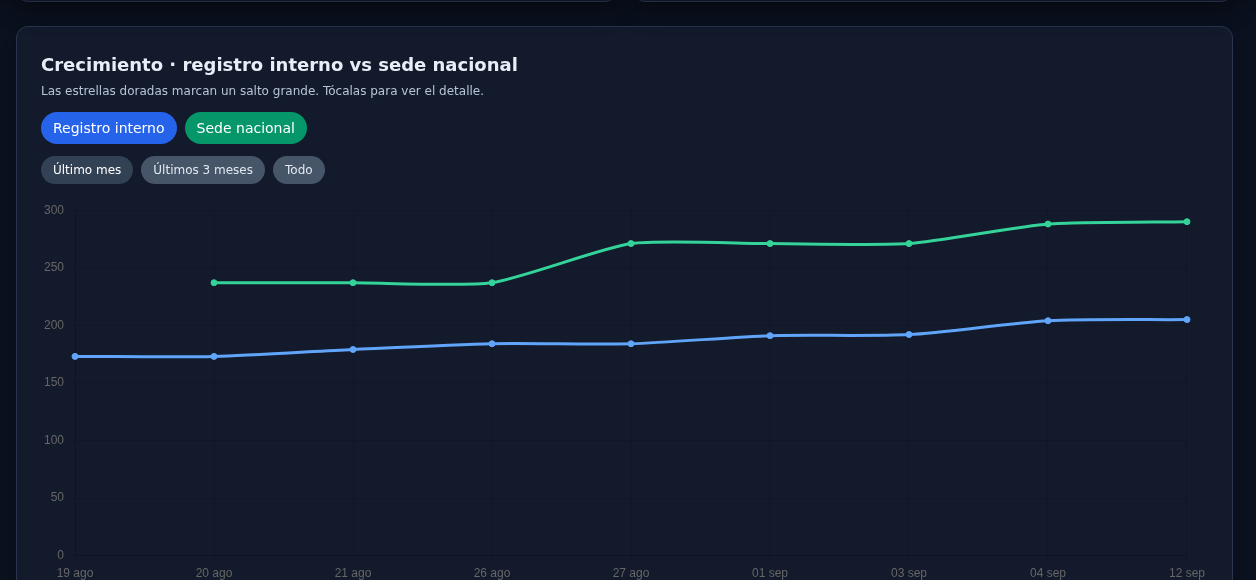
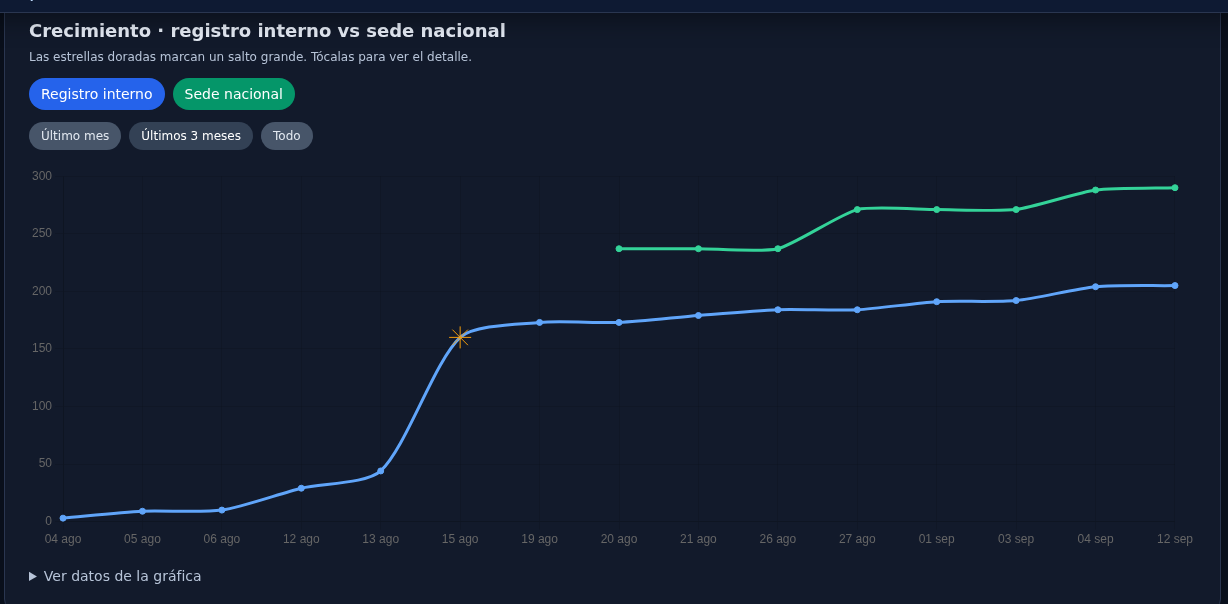
Deploy full 3-month dark evolución to GitHub Pages
Publish complete screenshot for gallery evolución and hero (no crop)
with ?v=dark3m cache-bust so the live site refreshes.

diff --git a/index.html b/index.html
@@ -1,1 +1,1 @@
-<!DOCTYPE html><html lang="es"><head><meta charset="UTF-8"><meta name="viewport" content="width=device-width, initial-scale=1"><meta name="generator" content="Astro v7.3.2"><title>Sebastian Romero · Automatización y dashboards</title><meta name="description" content="Ingeniero de sistemas en Colombia. Diseño dashboards, informes y automatizaciones con Python y Node.js para equipos que necesitan operar con claridad."><link rel="canonical" href="https://crearbots.github.io/portafolio/"><meta name="theme-color" content="#0a0c0f"><meta property="og:title" content="Sebastian Romero · Automatización y dashboards"><meta property="og:description" content="Ingeniero de sistemas en Colombia. Diseño dashboards, informes y automatizaciones con Python y Node.js para equipos que necesitan operar con claridad."><meta property="og:type" content="website"><meta property="og:url" content="https://crearbots.github.io/portafolio/"><meta property="og:locale" content="es_CO"><meta property="og:image" content="https://crearbots.github.io/portafolio/og.png"><meta property="og:image:width" content="1200"><meta property="og:image:height" content="630"><meta property="og:image:alt" content="Sebastian Romero · Automatización y dashboards"><meta name="twitter:card" content="summary_large_image"><meta name="twitter:title" content="Sebastian Romero · Automatización y dashboards"><meta name="twitter:description" content="Ingeniero de sistemas en Colombia. Diseño dashboards, informes y automatizaciones con Python y Node.js para equipos que necesitan operar con claridad."><meta name="twitter:image" content="https://crearbots.github.io/portafolio/og.png"><link rel="icon" type="image/svg+xml" href="/portafolio/favicon.svg"><link rel="preconnect" href="https://fonts.googleapis.com"><link rel="preconnect" href="https://fonts.gstatic.com" crossorigin><link href="https://fonts.googleapis.com/css2?family=DM+Sans:ital,opsz,wght@0,9..40,400;0,9..40,500;0,9..40,600;0,9..40,700;1,9..40,400&family=Syne:wght@500;600;700;800&display=swap" rel="stylesheet"><link rel="stylesheet" href="/portafolio/_astro/index.Dat7od7B.css"></head><body><a class="skip-link" href="#contenido">Saltar al contenido</a><header class="site-header"><div class="wrap nav"><a class="nav-brand" href="/portafolio/#">Sebastian Romero</a><button type="button" class="nav-toggle" aria-expanded="false" aria-controls="nav-menu" id="nav-toggle">Menú</button><ul class="nav-links" id="nav-menu"><li><a href="/portafolio/#servicios">Servicios</a></li><li><a href="/portafolio/#casos">Casos</a></li><li><a href="/portafolio/#sobre-mi">Sobre mí</a></li><li><a href="/portafolio/#contacto">Contacto</a></li><li><a href="https://github.com/crearbots" target="_blank" rel="noopener noreferrer">GitHub</a></li></ul></div></header><main id="contenido"><section class="hero" aria-labelledby="hero-title"><div class="wrap hero-grid"><div class="hero-copy"><p class="hero-eyebrow">Disponible para proyectos</p><h1 id="hero-title">Automatización y dashboards que tu equipo puede usar cada semana</h1><p class="hero-sub">Soy Sebastian Romero, ingeniero de sistemas. Construyo herramientas web e informes operativos — no demos para impresionar, sistemas para trabajar.</p><p class="hero-meta"><span>Colombia</span><span>UTC−5</span><span>Remoto</span></p><div class="cta-row"><a class="btn btn-primary" href="https://wa.me/573138793438" target="_blank" rel="noopener noreferrer">Hablemos por WhatsApp</a><a class="btn btn-ghost" href="/portafolio/#casos">Ver casos</a><a class="btn btn-link" href="https://github.com/crearbots" target="_blank" rel="noopener noreferrer">GitHub →</a></div></div><div class="hero-visual"><div class="hero-visual-glow" aria-hidden="true"></div><div class="hero-stage"><figure class="hero-product"><div class="hero-product-chrome" aria-hidden="true"><div class="shot-dots"><span></span><span></span><span></span></div><div class="shot-url">dashboard · evolución</div></div><div class="hero-product-media"><img src="/portafolio/images/censo/hero-dashboard.png?v=dark1" alt="Gráfico de evolución diaria del censo InfoMIRA" width="1256" height="580" decoding="async" fetchpriority="high"></div><figcaption class="hero-product-caption"><a href="/portafolio/#casos">Censo · evolución del dashboard</a></figcaption></figure><div class="hero-float hero-float--stack" aria-hidden="true"><span>Python</span><span>FastAPI</span></div><svg class="hero-orbit" viewBox="0 0 320 320" fill="none" xmlns="http://www.w3.org/2000/svg" aria-hidden="true"><circle cx="160" cy="160" r="118" stroke="url(#orbitGrad)" stroke-width="1.2" stroke-dasharray="4 8" opacity="0.55"></circle><circle cx="160" cy="160" r="148" stroke="rgba(232,160,84,0.22)" stroke-width="1" stroke-dasharray="2 10"></circle><defs><linearGradient id="orbitGrad" x1="40" y1="40" x2="280" y2="280"><stop stop-color="#6ba8d8"></stop><stop offset="1" stop-color="#e8a054"></stop></linearGradient></defs></svg></div></div></div></section><section id="servicios" aria-labelledby="servicios-title"><div class="wrap"><div class="section-head"><p class="section-label">Servicios</p><h2 id="servicios-title">En qué puedo ayudarte</h2></div><div class="services-grid"><article class="service-card"><div class="service-icon" aria-hidden="true">01</div><h3>Dashboards e informes operativos</h3><p>Dejas de armar el reporte a mano. Tableros y resúmenes semanales listos para compartir con tu equipo.</p></article><article class="service-card"><div class="service-icon" aria-hidden="true">02</div><h3>Automatización de procesos</h3><p>Scripts y flujos que quitan trabajo repetitivo: Excel, mensajes, cargas de datos y tareas en Linux.</p></article><article class="service-card"><div class="service-icon" aria-hidden="true">03</div><h3>Desarrollo web orientado a operación</h3><p>Paneles internos, login, carga de archivos y vistas claras para quien no es técnico.</p></article><article class="service-card"><div class="service-icon" aria-hidden="true">04</div><h3>Backend con Python y Node.js</h3><p>APIs y lógica de negocio cuando tu proceso ya no cabe en una hoja de cálculo.</p></article></div></div></section><section id="casos" aria-labelledby="casos-title"><div class="wrap"><div class="section-head"><p class="section-label">Casos</p><h2 id="casos-title">Trabajo real, no demos</h2></div><article class="case case--magazine" aria-labelledby="caso-censo"><div class="case-header"><h3 id="caso-censo">censo</h3><span class="badge badge-live">Proyecto real · en uso</span></div><dl class="case-grid"><div class="case-block"><dt>Problema</dt><dd>Equipo de instalaciones de una app de comunidad con registros duplicados y seguimiento disperso; el informe salía por WhatsApp a mano.</dd></div><div class="case-block"><dt>Solución</dt><dd>Web interna con login, carga de Excel, dashboard de seguimiento e informe listo para compartir.</dd></div><div class="case-block"><dt>Resultado</dt><dd>Dashboard de avance e informe semanal para WhatsApp en operación; versión usable y versionada (v1.1–v1.4) con el equipo.</dd></div><div class="case-block"><dt>Stack</dt><dd>Python, FastAPI, SQLAlchemy, Jinja2, SQLite, Railway</dd></div></dl><div class="case-stack" aria-label="Tecnologías"><span class="stack-chip">Python</span><span class="stack-chip">FastAPI</span><span class="stack-chip">SQLAlchemy</span><span class="stack-chip">Jinja2</span><span class="stack-chip">SQLite</span><span class="stack-chip">Railway</span></div><div class="shot-gallery shot-gallery--editorial" aria-label="Capturas del producto censo" data-lightbox-gallery><figure class="shot-frame shot-frame--feature"><div class="shot-chrome" aria-hidden="true"><div class="shot-dots"><span></span><span></span><span></span></div><div class="shot-url">infomira-censo · /dashboard</div></div><div class="shot-media"><button type="button" class="shot-trigger" data-lightbox-open data-lightbox-src="/portafolio/images/censo/dashboard-avance.png?v=dark1" data-lightbox-alt="Dashboard InfoMIRA Censo: avance del equipo 290 de 500 (58 %) en Resultados septiembre 2026" data-lightbox-caption="Dashboard de avance" aria-label="Ampliar imagen: Dashboard de avance"><img src="/portafolio/images/censo/dashboard-avance.png?v=dark1" alt="Dashboard InfoMIRA Censo: avance del equipo 290 de 500 (58 %) en Resultados septiembre 2026" width="1280" height="656" loading="lazy" decoding="async"></button></div><figcaption class="shot-caption">Dashboard de avance</figcaption></figure><figure class="shot-frame"><div class="shot-chrome" aria-hidden="true"><div class="shot-dots"><span></span><span></span><span></span></div><div class="shot-url">infomira-censo · evolución diaria</div></div><div class="shot-media"><button type="button" class="shot-trigger" data-lightbox-open data-lightbox-src="/portafolio/images/censo/dashboard-evolucion.png?v=dark1" data-lightbox-alt="Gráfico de evolución diaria del censo InfoMIRA: acumulado de personas instaladas en el tiempo" data-lightbox-caption="Evolución del censo" aria-label="Ampliar imagen: Evolución del censo"><img src="/portafolio/images/censo/dashboard-evolucion.png?v=dark1" alt="Gráfico de evolución diaria del censo InfoMIRA: acumulado de personas instaladas en el tiempo" width="1280" height="656" loading="lazy" decoding="async"></button></div><figcaption class="shot-caption">Evolución del censo</figcaption></figure><figure class="shot-frame"><div class="shot-chrome" aria-hidden="true"><div class="shot-dots"><span></span><span></span><span></span></div><div class="shot-url">infomira-censo · /informe</div></div><div class="shot-media"><button type="button" class="shot-trigger" data-lightbox-open data-lightbox-src="/portafolio/images/censo/informe-whatsapp.png?v=dark1" data-lightbox-alt="Informe semanal de InfoMIRA Censo listo para copiar y pegar en WhatsApp" data-lightbox-caption="Informe semanal para WhatsApp" aria-label="Ampliar imagen: Informe semanal para WhatsApp"><img src="/portafolio/images/censo/informe-whatsapp.png?v=dark1" alt="Informe semanal de InfoMIRA Censo listo para copiar y pegar en WhatsApp" width="1280" height="656" loading="lazy" decoding="async"></button></div><figcaption class="shot-caption">Informe semanal para WhatsApp</figcaption></figure></div><div class="case-actions"><div class="case-product"><a class="btn btn-primary" href="https://infomira-censo-production.up.railway.app/dashboard" target="_blank" rel="noopener noreferrer">Abrir app en producción</a><p class="case-access-note">Requiere acceso (login)</p></div><a class="btn btn-ghost" href="https://wa.me/573138793438" target="_blank" rel="noopener noreferrer">¿Necesitas un panel así para tu operación?</a></div></article><article class="case case--magazine" aria-labelledby="caso-tokio-ui"><div class="case-header"><h3 id="caso-tokio-ui">tokio-ui</h3><span class="badge badge-wip">En evolución · fase 1</span></div><dl class="case-grid"><div class="case-block"><dt>Problema</dt><dd>Interfaz compañera para un asistente de trayecto por voz: hace falta una presencia visual que reaccione al audio, sin ser aún un producto cerrado.</dd></div><div class="case-block"><dt>Qué hace hoy</dt><dd>Orbe 3D en Three.js (núcleo, cáscara, anillos) que reacciona al audio del sistema o de otra pestaña en el navegador. Conectar / Cortar en Chrome de escritorio; captura en móvil queda para fase 4.</dd></div><div class="case-block"><dt>Alcance</dt><dd>Visión: compañera de trayecto con presencia 3D. Próximo: control por gestos (manos), uso en celular, y más adelante navegación por voz con mapa propio. Hoy: fase 1 — orbe reactivo al audio en escritorio, con demo pública.</dd></div><div class="case-block"><dt>Stack</dt><dd>Vite, TypeScript, Three.js</dd></div></dl><div class="case-stack" aria-label="Tecnologías"><span class="stack-chip">Vite</span><span class="stack-chip">TypeScript</span><span class="stack-chip">Three.js</span></div><figure class="shot-frame shot-frame--hero" aria-label="Captura de tokio-ui"><div class="shot-chrome" aria-hidden="true"><div class="shot-dots"><span></span><span></span><span></span></div><div class="shot-url">tokio-ui · orbe holográfico</div></div><div class="shot-media"><button type="button" class="shot-trigger" data-lightbox-open data-lightbox-src="/portafolio/images/tokio/fase1-orbe.png" data-lightbox-alt="Tokio UI fase 1: orbe holográfico en negro con anillos rojo y cian; panel TOKIO con enlace activo y voz hablando" data-lightbox-caption="Orbe en fase 1" aria-label="Ampliar imagen: Orbe en fase 1"><img src="/portafolio/images/tokio/fase1-orbe.png" alt="Tokio UI fase 1: orbe holográfico en negro con anillos rojo y cian; panel TOKIO con enlace activo y voz hablando" width="1917" height="905" loading="lazy" decoding="async"></button></div><figcaption class="shot-caption">Orbe en fase 1</figcaption></figure><div class="case-actions"><div class="case-product"><a class="btn btn-primary" href="https://tokio-ui-production.up.railway.app/" target="_blank" rel="noopener noreferrer">Abrir Tokio UI</a><p class="case-access-note">Demo en vivo · Chrome de escritorio recomendado para el enlace de audio</p></div><a class="btn btn-ghost" href="https://wa.me/573138793438" target="_blank" rel="noopener noreferrer">Lo maduramos juntos</a><a class="case-repo" href="https://github.com/crearbots/tokio-ui" target="_blank" rel="noopener noreferrer">Código en GitHub</a></div></article><article class="case case--magazine case--text" aria-labelledby="caso-whatsapp-envios"><div class="case-header"><h3 id="caso-whatsapp-envios">whatsapp-envios</h3><span class="badge badge-wip">MVP · pruebas internas</span></div><dl class="case-grid"><div class="case-block"><dt>Problema</dt><dd>Convocatorias e invitaciones por WhatsApp se armaban uno a uno: lento, fácil de equivocarse y difícil de seguir quién recibió el mensaje.</dd></div><div class="case-block"><dt>Solución</dt><dd>Herramienta web para campañas de WhatsApp personalizadas: login y roles, carga de Excel, vinculación por QR, progreso del envío y reintento de fallidos.</dd></div><div class="case-block"><dt>Estado</dt><dd>En pruebas internas con el equipo. Aún no hay demo pública ni capturas publicadas; cuando quieras verlo, avísame por WhatsApp.</dd></div><div class="case-block"><dt>Stack</dt><dd>Node.js, Express, SQLite (better-sqlite3), whatsapp-web.js, Excel (xlsx), JWT</dd></div></dl><div class="case-stack" aria-label="Tecnologías"><span class="stack-chip">Node.js</span><span class="stack-chip">Express</span><span class="stack-chip">SQLite</span><span class="stack-chip">whatsapp-web.js</span><span class="stack-chip">Excel</span><span class="stack-chip">JWT</span></div><div class="case-actions"><div class="case-product"><a class="btn btn-primary" href="https://wa.me/573138793438" target="_blank" rel="noopener noreferrer">Pedir demo</a><p class="case-access-note">Pruebas internas · sin demo pública aún</p></div><a class="case-repo" href="https://github.com/crearbots/whatsapp-envios" target="_blank" rel="noopener noreferrer">Código en GitHub</a></div></article></div></section><section id="como-trabajo" aria-labelledby="como-title"><div class="wrap"><div class="section-head"><p class="section-label">Método</p><h2 id="como-title">Cómo trabajo</h2></div><ol class="steps"><li class="step"><h3>Entender el proceso</h3><p>Primero el flujo real: quién carga datos, qué se decide y qué se reporta. Sin eso, el software sobra.</p></li><li class="step"><h3>Entregar algo usable</h3><p>Prefiero una versión que el equipo ya pueda usar a una demo perfecta que nadie toca.</p></li><li class="step"><h3>Dejarlo claro</h3><p>Documentación breve, acceso ordenado y cambios versionados para que no dependan de mí en cada ajuste.</p></li></ol></div></section><section id="sobre-mi" aria-labelledby="sobre-title"><div class="wrap"><div class="section-head"><p class="section-label">Sobre mí</p><h2 id="sobre-title">Ingeniero de sistemas, enfoque operativo</h2></div><div class="about-text"><p>Me importa más que tus procesos no dependan de un “héroe del Excel” que sabe dónde está cada hoja. Diseño herramientas para que el equipo opere con claridad: dashboards, informes y automatizaciones que se usan de verdad.</p><p>Trabajo con Python, Node.js y Linux. Estoy en Colombia (UTC−5) y atiendo proyectos en remoto.</p></div><ul class="about-tags" aria-label="Herramientas y contexto"><li>Python</li><li>Node.js</li><li>Linux</li><li>Colombia · UTC−5</li><li>Remoto</li></ul></div></section><section id="contacto" aria-labelledby="contacto-title"><div class="wrap"><div class="section-head"><p class="section-label">Contacto</p><h2 id="contacto-title">Hablemos</h2></div><div class="contact-box"><p>Cuéntame qué proceso quieres ordenar o automatizar. Respondemos por WhatsApp y vemos si tiene sentido trabajar juntos.</p><div class="cta-row"><a class="btn btn-primary" href="https://wa.me/573138793438" target="_blank" rel="noopener noreferrer">Escribir por WhatsApp</a><a class="btn btn-ghost" href="https://github.com/crearbots" target="_blank" rel="noopener noreferrer">GitHub</a></div><p class="contact-note">Horario laboral · Colombia (UTC−5)</p></div></div></section></main><footer class="site-footer"><div class="wrap"><p>Sebastian Romero · Automatización y dashboards</p><p><a href="https://github.com/crearbots" target="_blank" rel="noopener noreferrer">GitHub</a></p></div></footer><div id="lightbox" class="lightbox" hidden role="dialog" aria-modal="true" aria-labelledby="lightbox-caption"><div class="lightbox-backdrop" data-lightbox-close tabindex="-1"></div><div class="lightbox-panel"><button type="button" class="lightbox-close" data-lightbox-close aria-label="Cerrar imagen ampliada"><span aria-hidden="true">×</span></button><button type="button" class="lightbox-nav lightbox-prev" data-lightbox-prev aria-label="Imagen anterior"><span aria-hidden="true">‹</span></button><figure class="lightbox-figure"><img id="lightbox-img" class="lightbox-img" src="" alt=""><figcaption id="lightbox-caption" class="lightbox-caption"></figcaption></figure><button type="button" class="lightbox-nav lightbox-next" data-lightbox-next aria-label="Imagen siguiente"><span aria-hidden="true">›</span></button></div></div><script type="module">var e=document.getElementById(`nav-toggle`),t=document.getElementById(`nav-menu`);e&&t&&(e.addEventListener(`click`,()=>{let n=t.classList.toggle(`open`);e.setAttribute(`aria-expanded`,String(n))}),t.querySelectorAll(`a`).forEach(n=>{n.addEventListener(`click`,()=>{t.classList.remove(`open`),e.setAttribute(`aria-expanded`,`false`)})})),(function(){let e=document.getElementById(`lightbox`);if(!e)return;let t=document.getElementById(`lightbox-img`),n=document.getElementById(`lightbox-caption`),r=e.querySelector(`.lightbox-close`),i=e.querySelector(`[data-lightbox-prev]`),a=e.querySelector(`[data-lightbox-next]`),o=Array.from(document.querySelectorAll(`[data-lightbox-open]`));if(!t||!n||!r||o.length===0)return;let s=()=>[r,i,a].filter(e=>e&&!e.hasAttribute(`disabled`)&&e.offsetParent!==null),c=0,l=null;function u(){return o.map(e=>({src:e.getAttribute(`data-lightbox-src`)||``,alt:e.getAttribute(`data-lightbox-alt`)||``,caption:e.getAttribute(`data-lightbox-caption`)||``}))}function d(e){let r=u();if(!r.length)return;c=(e%r.length+r.length)%r.length;let i=r[c];t.src=i.src,t.alt=i.alt,n.textContent=i.caption}function f(t,n){l=n||document.activeElement,d(t),e.hidden=!1,document.body.classList.add(`lightbox-open`),r.focus()}function p(){e.hidden||(e.hidden=!0,document.body.classList.remove(`lightbox-open`),t.removeAttribute(`src`),t.alt=``,n.textContent=``,l&&typeof l.focus==`function`&&l.focus(),l=null)}function m(e){d(c+e)}o.forEach((e,t)=>{e.addEventListener(`click`,()=>f(t,e))}),e.querySelectorAll(`[data-lightbox-close]`).forEach(e=>{e.addEventListener(`click`,p)}),i&&i.addEventListener(`click`,()=>m(-1)),a&&a.addEventListener(`click`,()=>m(1)),document.addEventListener(`keydown`,t=>{if(!e.hidden){if(t.key===`Escape`)t.preventDefault(),p();else if(t.key===`ArrowLeft`)t.preventDefault(),m(-1);else if(t.key===`ArrowRight`)t.preventDefault(),m(1);else if(t.key===`Tab`){let e=s();if(e.length===0)return;let n=e[0],r=e[e.length-1];t.shiftKey&&document.activeElement===n?(t.preventDefault(),r.focus()):!t.shiftKey&&document.activeElement===r&&(t.preventDefault(),n.focus())}}})})();</script></body></html>
+<!DOCTYPE html><html lang="es"><head><meta charset="UTF-8"><meta name="viewport" content="width=device-width, initial-scale=1"><meta name="generator" content="Astro v7.3.2"><title>Sebastian Romero · Automatización y dashboards</title><meta name="description" content="Ingeniero de sistemas en Colombia. Diseño dashboards, informes y automatizaciones con Python y Node.js para equipos que necesitan operar con claridad."><link rel="canonical" href="https://crearbots.github.io/portafolio/"><meta name="theme-color" content="#0a0c0f"><meta property="og:title" content="Sebastian Romero · Automatización y dashboards"><meta property="og:description" content="Ingeniero de sistemas en Colombia. Diseño dashboards, informes y automatizaciones con Python y Node.js para equipos que necesitan operar con claridad."><meta property="og:type" content="website"><meta property="og:url" content="https://crearbots.github.io/portafolio/"><meta property="og:locale" content="es_CO"><meta property="og:image" content="https://crearbots.github.io/portafolio/og.png"><meta property="og:image:width" content="1200"><meta property="og:image:height" content="630"><meta property="og:image:alt" content="Sebastian Romero · Automatización y dashboards"><meta name="twitter:card" content="summary_large_image"><meta name="twitter:title" content="Sebastian Romero · Automatización y dashboards"><meta name="twitter:description" content="Ingeniero de sistemas en Colombia. Diseño dashboards, informes y automatizaciones con Python y Node.js para equipos que necesitan operar con claridad."><meta name="twitter:image" content="https://crearbots.github.io/portafolio/og.png"><link rel="icon" type="image/svg+xml" href="/portafolio/favicon.svg"><link rel="preconnect" href="https://fonts.googleapis.com"><link rel="preconnect" href="https://fonts.gstatic.com" crossorigin><link href="https://fonts.googleapis.com/css2?family=DM+Sans:ital,opsz,wght@0,9..40,400;0,9..40,500;0,9..40,600;0,9..40,700;1,9..40,400&family=Syne:wght@500;600;700;800&display=swap" rel="stylesheet"><link rel="stylesheet" href="/portafolio/_astro/index.Dat7od7B.css"></head><body><a class="skip-link" href="#contenido">Saltar al contenido</a><header class="site-header"><div class="wrap nav"><a class="nav-brand" href="/portafolio/#">Sebastian Romero</a><button type="button" class="nav-toggle" aria-expanded="false" aria-controls="nav-menu" id="nav-toggle">Menú</button><ul class="nav-links" id="nav-menu"><li><a href="/portafolio/#servicios">Servicios</a></li><li><a href="/portafolio/#casos">Casos</a></li><li><a href="/portafolio/#sobre-mi">Sobre mí</a></li><li><a href="/portafolio/#contacto">Contacto</a></li><li><a href="https://github.com/crearbots" target="_blank" rel="noopener noreferrer">GitHub</a></li></ul></div></header><main id="contenido"><section class="hero" aria-labelledby="hero-title"><div class="wrap hero-grid"><div class="hero-copy"><p class="hero-eyebrow">Disponible para proyectos</p><h1 id="hero-title">Automatización y dashboards que tu equipo puede usar cada semana</h1><p class="hero-sub">Soy Sebastian Romero, ingeniero de sistemas. Construyo herramientas web e informes operativos — no demos para impresionar, sistemas para trabajar.</p><p class="hero-meta"><span>Colombia</span><span>UTC−5</span><span>Remoto</span></p><div class="cta-row"><a class="btn btn-primary" href="https://wa.me/573138793438" target="_blank" rel="noopener noreferrer">Hablemos por WhatsApp</a><a class="btn btn-ghost" href="/portafolio/#casos">Ver casos</a><a class="btn btn-link" href="https://github.com/crearbots" target="_blank" rel="noopener noreferrer">GitHub →</a></div></div><div class="hero-visual"><div class="hero-visual-glow" aria-hidden="true"></div><div class="hero-stage"><figure class="hero-product"><div class="hero-product-chrome" aria-hidden="true"><div class="shot-dots"><span></span><span></span><span></span></div><div class="shot-url">dashboard · evolución</div></div><div class="hero-product-media"><img src="/portafolio/images/censo/hero-dashboard.png?v=dark3m" alt="Gráfico de evolución diaria del censo InfoMIRA" width="1228" height="604" decoding="async" fetchpriority="high"></div><figcaption class="hero-product-caption"><a href="/portafolio/#casos">Censo · evolución del dashboard</a></figcaption></figure><div class="hero-float hero-float--stack" aria-hidden="true"><span>Python</span><span>FastAPI</span></div><svg class="hero-orbit" viewBox="0 0 320 320" fill="none" xmlns="http://www.w3.org/2000/svg" aria-hidden="true"><circle cx="160" cy="160" r="118" stroke="url(#orbitGrad)" stroke-width="1.2" stroke-dasharray="4 8" opacity="0.55"></circle><circle cx="160" cy="160" r="148" stroke="rgba(232,160,84,0.22)" stroke-width="1" stroke-dasharray="2 10"></circle><defs><linearGradient id="orbitGrad" x1="40" y1="40" x2="280" y2="280"><stop stop-color="#6ba8d8"></stop><stop offset="1" stop-color="#e8a054"></stop></linearGradient></defs></svg></div></div></div></section><section id="servicios" aria-labelledby="servicios-title"><div class="wrap"><div class="section-head"><p class="section-label">Servicios</p><h2 id="servicios-title">En qué puedo ayudarte</h2></div><div class="services-grid"><article class="service-card"><div class="service-icon" aria-hidden="true">01</div><h3>Dashboards e informes operativos</h3><p>Dejas de armar el reporte a mano. Tableros y resúmenes semanales listos para compartir con tu equipo.</p></article><article class="service-card"><div class="service-icon" aria-hidden="true">02</div><h3>Automatización de procesos</h3><p>Scripts y flujos que quitan trabajo repetitivo: Excel, mensajes, cargas de datos y tareas en Linux.</p></article><article class="service-card"><div class="service-icon" aria-hidden="true">03</div><h3>Desarrollo web orientado a operación</h3><p>Paneles internos, login, carga de archivos y vistas claras para quien no es técnico.</p></article><article class="service-card"><div class="service-icon" aria-hidden="true">04</div><h3>Backend con Python y Node.js</h3><p>APIs y lógica de negocio cuando tu proceso ya no cabe en una hoja de cálculo.</p></article></div></div></section><section id="casos" aria-labelledby="casos-title"><div class="wrap"><div class="section-head"><p class="section-label">Casos</p><h2 id="casos-title">Trabajo real, no demos</h2></div><article class="case case--magazine" aria-labelledby="caso-censo"><div class="case-header"><h3 id="caso-censo">censo</h3><span class="badge badge-live">Proyecto real · en uso</span></div><dl class="case-grid"><div class="case-block"><dt>Problema</dt><dd>Equipo de instalaciones de una app de comunidad con registros duplicados y seguimiento disperso; el informe salía por WhatsApp a mano.</dd></div><div class="case-block"><dt>Solución</dt><dd>Web interna con login, carga de Excel, dashboard de seguimiento e informe listo para compartir.</dd></div><div class="case-block"><dt>Resultado</dt><dd>Dashboard de avance e informe semanal para WhatsApp en operación; versión usable y versionada (v1.1–v1.4) con el equipo.</dd></div><div class="case-block"><dt>Stack</dt><dd>Python, FastAPI, SQLAlchemy, Jinja2, SQLite, Railway</dd></div></dl><div class="case-stack" aria-label="Tecnologías"><span class="stack-chip">Python</span><span class="stack-chip">FastAPI</span><span class="stack-chip">SQLAlchemy</span><span class="stack-chip">Jinja2</span><span class="stack-chip">SQLite</span><span class="stack-chip">Railway</span></div><div class="shot-gallery shot-gallery--editorial" aria-label="Capturas del producto censo" data-lightbox-gallery><figure class="shot-frame shot-frame--feature"><div class="shot-chrome" aria-hidden="true"><div class="shot-dots"><span></span><span></span><span></span></div><div class="shot-url">infomira-censo · /dashboard</div></div><div class="shot-media"><button type="button" class="shot-trigger" data-lightbox-open data-lightbox-src="/portafolio/images/censo/dashboard-avance.png?v=dark1" data-lightbox-alt="Dashboard InfoMIRA Censo: avance del equipo 290 de 500 (58 %) en Resultados septiembre 2026" data-lightbox-caption="Dashboard de avance" aria-label="Ampliar imagen: Dashboard de avance"><img src="/portafolio/images/censo/dashboard-avance.png?v=dark1" alt="Dashboard InfoMIRA Censo: avance del equipo 290 de 500 (58 %) en Resultados septiembre 2026" width="1280" height="656" loading="lazy" decoding="async"></button></div><figcaption class="shot-caption">Dashboard de avance</figcaption></figure><figure class="shot-frame"><div class="shot-chrome" aria-hidden="true"><div class="shot-dots"><span></span><span></span><span></span></div><div class="shot-url">infomira-censo · evolución diaria</div></div><div class="shot-media"><button type="button" class="shot-trigger" data-lightbox-open data-lightbox-src="/portafolio/images/censo/dashboard-evolucion.png?v=dark3m" data-lightbox-alt="Gráfico de evolución diaria del censo InfoMIRA: acumulado de personas instaladas en el tiempo" data-lightbox-caption="Evolución del censo" aria-label="Ampliar imagen: Evolución del censo"><img src="/portafolio/images/censo/dashboard-evolucion.png?v=dark3m" alt="Gráfico de evolución diaria del censo InfoMIRA: acumulado de personas instaladas en el tiempo" width="1228" height="604" loading="lazy" decoding="async"></button></div><figcaption class="shot-caption">Evolución del censo</figcaption></figure><figure class="shot-frame"><div class="shot-chrome" aria-hidden="true"><div class="shot-dots"><span></span><span></span><span></span></div><div class="shot-url">infomira-censo · /informe</div></div><div class="shot-media"><button type="button" class="shot-trigger" data-lightbox-open data-lightbox-src="/portafolio/images/censo/informe-whatsapp.png?v=dark1" data-lightbox-alt="Informe semanal de InfoMIRA Censo listo para copiar y pegar en WhatsApp" data-lightbox-caption="Informe semanal para WhatsApp" aria-label="Ampliar imagen: Informe semanal para WhatsApp"><img src="/portafolio/images/censo/informe-whatsapp.png?v=dark1" alt="Informe semanal de InfoMIRA Censo listo para copiar y pegar en WhatsApp" width="1280" height="656" loading="lazy" decoding="async"></button></div><figcaption class="shot-caption">Informe semanal para WhatsApp</figcaption></figure></div><div class="case-actions"><div class="case-product"><a class="btn btn-primary" href="https://infomira-censo-production.up.railway.app/dashboard" target="_blank" rel="noopener noreferrer">Abrir app en producción</a><p class="case-access-note">Requiere acceso (login)</p></div><a class="btn btn-ghost" href="https://wa.me/573138793438" target="_blank" rel="noopener noreferrer">¿Necesitas un panel así para tu operación?</a></div></article><article class="case case--magazine" aria-labelledby="caso-tokio-ui"><div class="case-header"><h3 id="caso-tokio-ui">tokio-ui</h3><span class="badge badge-wip">En evolución · fase 1</span></div><dl class="case-grid"><div class="case-block"><dt>Problema</dt><dd>Interfaz compañera para un asistente de trayecto por voz: hace falta una presencia visual que reaccione al audio, sin ser aún un producto cerrado.</dd></div><div class="case-block"><dt>Qué hace hoy</dt><dd>Orbe 3D en Three.js (núcleo, cáscara, anillos) que reacciona al audio del sistema o de otra pestaña en el navegador. Conectar / Cortar en Chrome de escritorio; captura en móvil queda para fase 4.</dd></div><div class="case-block"><dt>Alcance</dt><dd>Visión: compañera de trayecto con presencia 3D. Próximo: control por gestos (manos), uso en celular, y más adelante navegación por voz con mapa propio. Hoy: fase 1 — orbe reactivo al audio en escritorio, con demo pública.</dd></div><div class="case-block"><dt>Stack</dt><dd>Vite, TypeScript, Three.js</dd></div></dl><div class="case-stack" aria-label="Tecnologías"><span class="stack-chip">Vite</span><span class="stack-chip">TypeScript</span><span class="stack-chip">Three.js</span></div><figure class="shot-frame shot-frame--hero" aria-label="Captura de tokio-ui"><div class="shot-chrome" aria-hidden="true"><div class="shot-dots"><span></span><span></span><span></span></div><div class="shot-url">tokio-ui · orbe holográfico</div></div><div class="shot-media"><button type="button" class="shot-trigger" data-lightbox-open data-lightbox-src="/portafolio/images/tokio/fase1-orbe.png" data-lightbox-alt="Tokio UI fase 1: orbe holográfico en negro con anillos rojo y cian; panel TOKIO con enlace activo y voz hablando" data-lightbox-caption="Orbe en fase 1" aria-label="Ampliar imagen: Orbe en fase 1"><img src="/portafolio/images/tokio/fase1-orbe.png" alt="Tokio UI fase 1: orbe holográfico en negro con anillos rojo y cian; panel TOKIO con enlace activo y voz hablando" width="1917" height="905" loading="lazy" decoding="async"></button></div><figcaption class="shot-caption">Orbe en fase 1</figcaption></figure><div class="case-actions"><div class="case-product"><a class="btn btn-primary" href="https://tokio-ui-production.up.railway.app/" target="_blank" rel="noopener noreferrer">Abrir Tokio UI</a><p class="case-access-note">Demo en vivo · Chrome de escritorio recomendado para el enlace de audio</p></div><a class="btn btn-ghost" href="https://wa.me/573138793438" target="_blank" rel="noopener noreferrer">Lo maduramos juntos</a><a class="case-repo" href="https://github.com/crearbots/tokio-ui" target="_blank" rel="noopener noreferrer">Código en GitHub</a></div></article><article class="case case--magazine case--text" aria-labelledby="caso-whatsapp-envios"><div class="case-header"><h3 id="caso-whatsapp-envios">whatsapp-envios</h3><span class="badge badge-wip">MVP · pruebas internas</span></div><dl class="case-grid"><div class="case-block"><dt>Problema</dt><dd>Convocatorias e invitaciones por WhatsApp se armaban uno a uno: lento, fácil de equivocarse y difícil de seguir quién recibió el mensaje.</dd></div><div class="case-block"><dt>Solución</dt><dd>Herramienta web para campañas de WhatsApp personalizadas: login y roles, carga de Excel, vinculación por QR, progreso del envío y reintento de fallidos.</dd></div><div class="case-block"><dt>Estado</dt><dd>En pruebas internas con el equipo. Aún no hay demo pública ni capturas publicadas; cuando quieras verlo, avísame por WhatsApp.</dd></div><div class="case-block"><dt>Stack</dt><dd>Node.js, Express, SQLite (better-sqlite3), whatsapp-web.js, Excel (xlsx), JWT</dd></div></dl><div class="case-stack" aria-label="Tecnologías"><span class="stack-chip">Node.js</span><span class="stack-chip">Express</span><span class="stack-chip">SQLite</span><span class="stack-chip">whatsapp-web.js</span><span class="stack-chip">Excel</span><span class="stack-chip">JWT</span></div><div class="case-actions"><div class="case-product"><a class="btn btn-primary" href="https://wa.me/573138793438" target="_blank" rel="noopener noreferrer">Pedir demo</a><p class="case-access-note">Pruebas internas · sin demo pública aún</p></div><a class="case-repo" href="https://github.com/crearbots/whatsapp-envios" target="_blank" rel="noopener noreferrer">Código en GitHub</a></div></article></div></section><section id="como-trabajo" aria-labelledby="como-title"><div class="wrap"><div class="section-head"><p class="section-label">Método</p><h2 id="como-title">Cómo trabajo</h2></div><ol class="steps"><li class="step"><h3>Entender el proceso</h3><p>Primero el flujo real: quién carga datos, qué se decide y qué se reporta. Sin eso, el software sobra.</p></li><li class="step"><h3>Entregar algo usable</h3><p>Prefiero una versión que el equipo ya pueda usar a una demo perfecta que nadie toca.</p></li><li class="step"><h3>Dejarlo claro</h3><p>Documentación breve, acceso ordenado y cambios versionados para que no dependan de mí en cada ajuste.</p></li></ol></div></section><section id="sobre-mi" aria-labelledby="sobre-title"><div class="wrap"><div class="section-head"><p class="section-label">Sobre mí</p><h2 id="sobre-title">Ingeniero de sistemas, enfoque operativo</h2></div><div class="about-text"><p>Me importa más que tus procesos no dependan de un “héroe del Excel” que sabe dónde está cada hoja. Diseño herramientas para que el equipo opere con claridad: dashboards, informes y automatizaciones que se usan de verdad.</p><p>Trabajo con Python, Node.js y Linux. Estoy en Colombia (UTC−5) y atiendo proyectos en remoto.</p></div><ul class="about-tags" aria-label="Herramientas y contexto"><li>Python</li><li>Node.js</li><li>Linux</li><li>Colombia · UTC−5</li><li>Remoto</li></ul></div></section><section id="contacto" aria-labelledby="contacto-title"><div class="wrap"><div class="section-head"><p class="section-label">Contacto</p><h2 id="contacto-title">Hablemos</h2></div><div class="contact-box"><p>Cuéntame qué proceso quieres ordenar o automatizar. Respondemos por WhatsApp y vemos si tiene sentido trabajar juntos.</p><div class="cta-row"><a class="btn btn-primary" href="https://wa.me/573138793438" target="_blank" rel="noopener noreferrer">Escribir por WhatsApp</a><a class="btn btn-ghost" href="https://github.com/crearbots" target="_blank" rel="noopener noreferrer">GitHub</a></div><p class="contact-note">Horario laboral · Colombia (UTC−5)</p></div></div></section></main><footer class="site-footer"><div class="wrap"><p>Sebastian Romero · Automatización y dashboards</p><p><a href="https://github.com/crearbots" target="_blank" rel="noopener noreferrer">GitHub</a></p></div></footer><div id="lightbox" class="lightbox" hidden role="dialog" aria-modal="true" aria-labelledby="lightbox-caption"><div class="lightbox-backdrop" data-lightbox-close tabindex="-1"></div><div class="lightbox-panel"><button type="button" class="lightbox-close" data-lightbox-close aria-label="Cerrar imagen ampliada"><span aria-hidden="true">×</span></button><button type="button" class="lightbox-nav lightbox-prev" data-lightbox-prev aria-label="Imagen anterior"><span aria-hidden="true">‹</span></button><figure class="lightbox-figure"><img id="lightbox-img" class="lightbox-img" src="" alt=""><figcaption id="lightbox-caption" class="lightbox-caption"></figcaption></figure><button type="button" class="lightbox-nav lightbox-next" data-lightbox-next aria-label="Imagen siguiente"><span aria-hidden="true">›</span></button></div></div><script type="module">var e=document.getElementById(`nav-toggle`),t=document.getElementById(`nav-menu`);e&&t&&(e.addEventListener(`click`,()=>{let n=t.classList.toggle(`open`);e.setAttribute(`aria-expanded`,String(n))}),t.querySelectorAll(`a`).forEach(n=>{n.addEventListener(`click`,()=>{t.classList.remove(`open`),e.setAttribute(`aria-expanded`,`false`)})})),(function(){let e=document.getElementById(`lightbox`);if(!e)return;let t=document.getElementById(`lightbox-img`),n=document.getElementById(`lightbox-caption`),r=e.querySelector(`.lightbox-close`),i=e.querySelector(`[data-lightbox-prev]`),a=e.querySelector(`[data-lightbox-next]`),o=Array.from(document.querySelectorAll(`[data-lightbox-open]`));if(!t||!n||!r||o.length===0)return;let s=()=>[r,i,a].filter(e=>e&&!e.hasAttribute(`disabled`)&&e.offsetParent!==null),c=0,l=null;function u(){return o.map(e=>({src:e.getAttribute(`data-lightbox-src`)||``,alt:e.getAttribute(`data-lightbox-alt`)||``,caption:e.getAttribute(`data-lightbox-caption`)||``}))}function d(e){let r=u();if(!r.length)return;c=(e%r.length+r.length)%r.length;let i=r[c];t.src=i.src,t.alt=i.alt,n.textContent=i.caption}function f(t,n){l=n||document.activeElement,d(t),e.hidden=!1,document.body.classList.add(`lightbox-open`),r.focus()}function p(){e.hidden||(e.hidden=!0,document.body.classList.remove(`lightbox-open`),t.removeAttribute(`src`),t.alt=``,n.textContent=``,l&&typeof l.focus==`function`&&l.focus(),l=null)}function m(e){d(c+e)}o.forEach((e,t)=>{e.addEventListener(`click`,()=>f(t,e))}),e.querySelectorAll(`[data-lightbox-close]`).forEach(e=>{e.addEventListener(`click`,p)}),i&&i.addEventListener(`click`,()=>m(-1)),a&&a.addEventListener(`click`,()=>m(1)),document.addEventListener(`keydown`,t=>{if(!e.hidden){if(t.key===`Escape`)t.preventDefault(),p();else if(t.key===`ArrowLeft`)t.preventDefault(),m(-1);else if(t.key===`ArrowRight`)t.preventDefault(),m(1);else if(t.key===`Tab`){let e=s();if(e.length===0)return;let n=e[0],r=e[e.length-1];t.shiftKey&&document.activeElement===n?(t.preventDefault(),r.focus()):!t.shiftKey&&document.activeElement===r&&(t.preventDefault(),n.focus())}}})})();</script></body></html>
